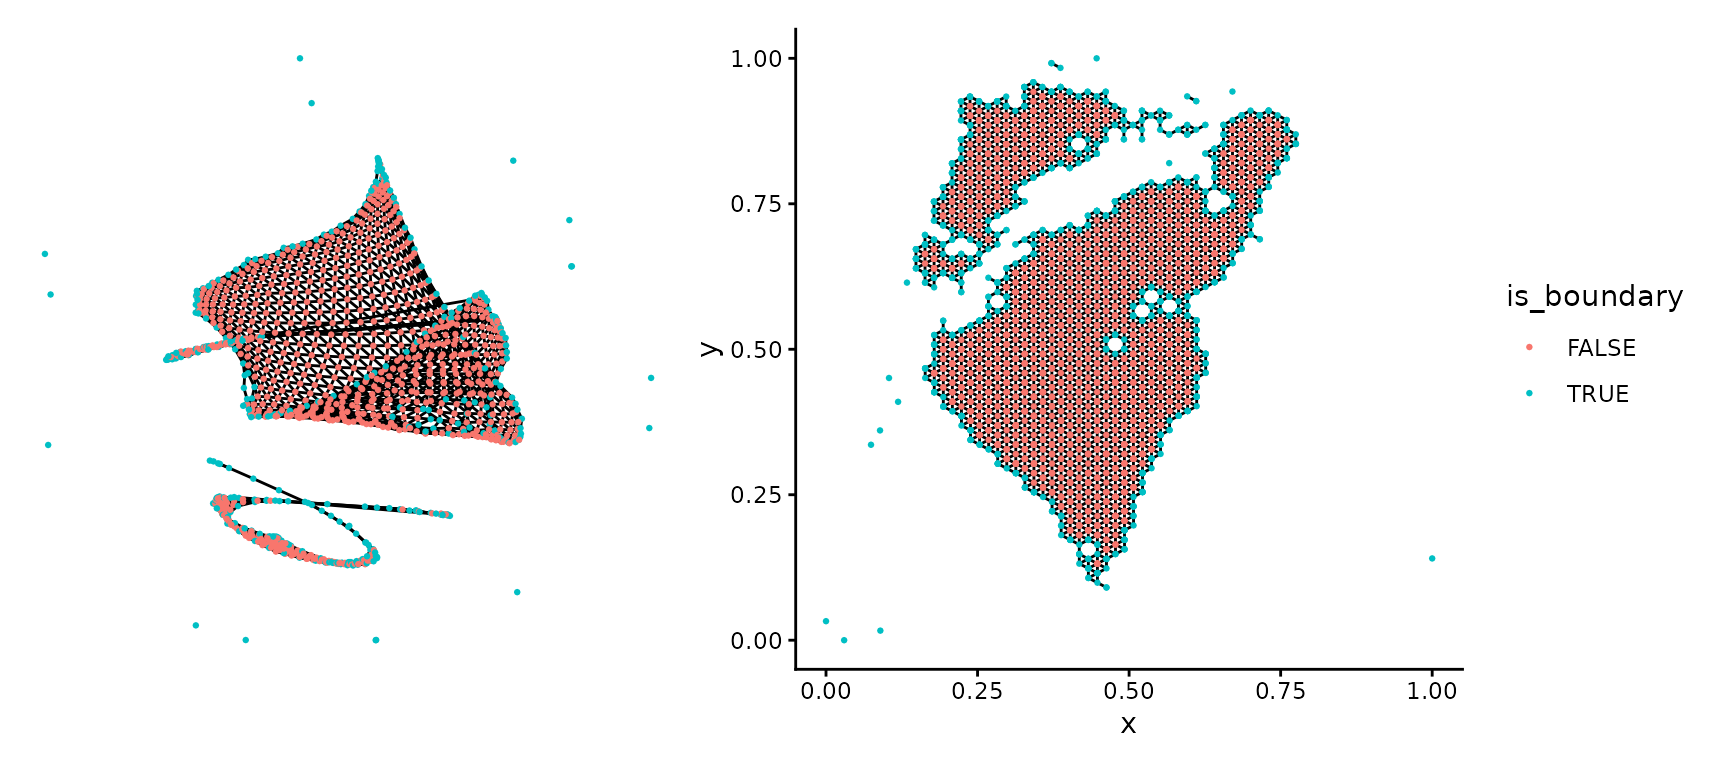
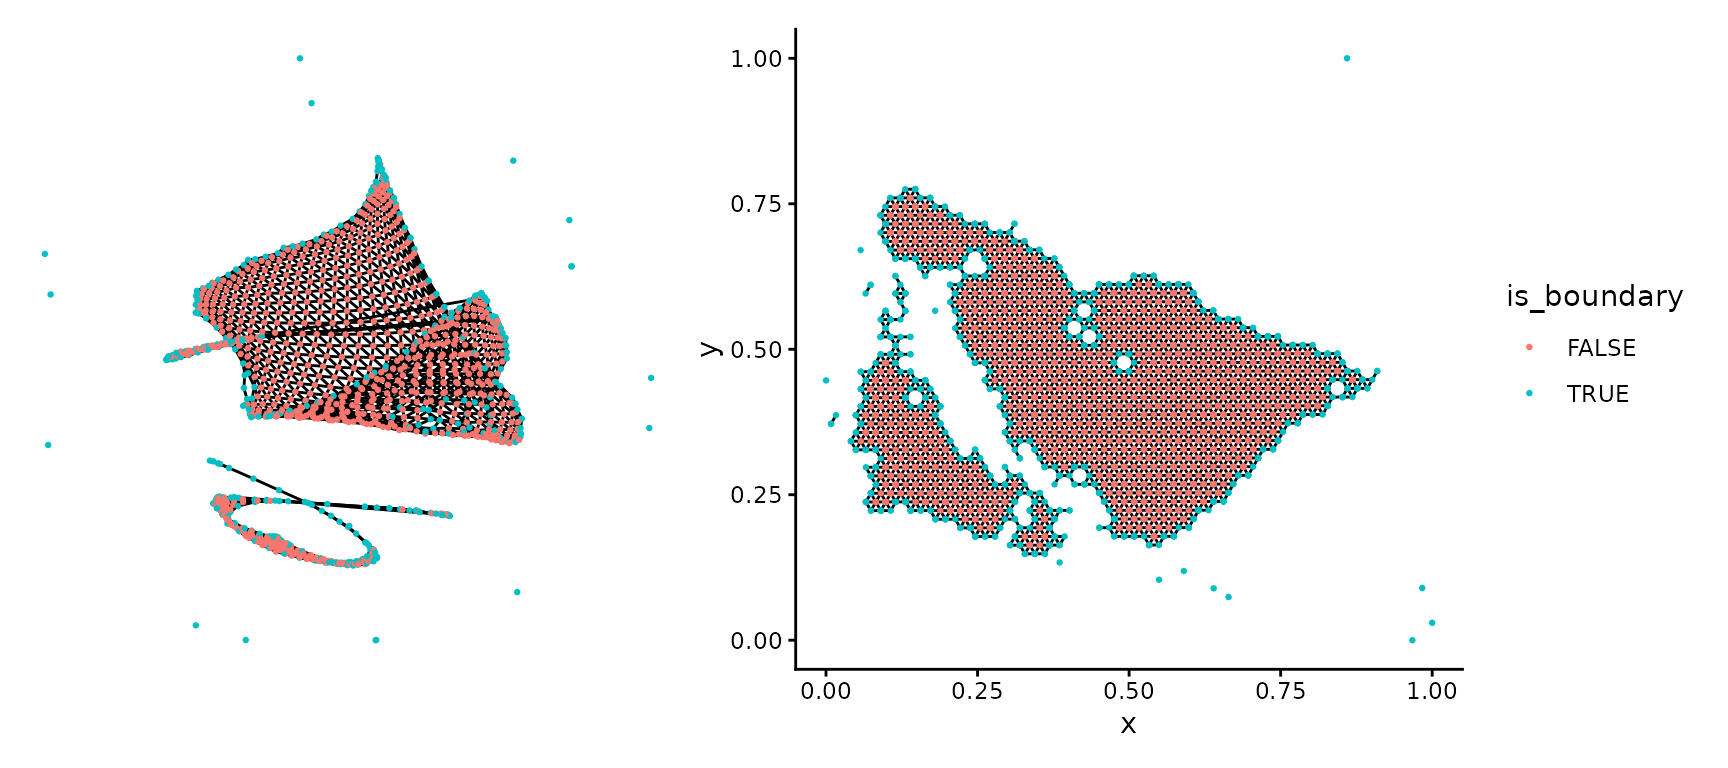
Deploying to gh-pages from @ Sanin-Lab/SpotGraphs@8dd87487889e87776dd56271fca29dce03f515f7 🚀

Changed region(s): [[0.4688, 0.0938, 0.8125, 0.7812]]

diff --git a/articles/SpotGraphs.html b/articles/SpotGraphs.html
@@ -114,29 +114,30 @@ through the network between each spot</li>
 the spots on our slide.</p>
 <div class="sourceCode" id="cb3"><pre class="downlit sourceCode r">
 <code class="sourceCode R"><span><span class="va">coord</span> <span class="op">=</span> <span class="fu">Seurat</span><span class="fu">::</span><span class="fu"><a href="https://satijalab.github.io/seurat-object/reference/GetTissueCoordinates.html" class="external-link">GetTissueCoordinates</a></span><span class="op">(</span><span class="va">scc_s1</span><span class="op">)</span></span>
-<span><span class="va">coord</span> <span class="op">=</span> <span class="fu"><a href="https://rdrr.io/r/base/data.frame.html" class="external-link">data.frame</a></span><span class="op">(</span>x <span class="op">=</span> <span class="va">coord</span><span class="op">$</span><span class="va">y</span>, y <span class="op">=</span> <span class="op">-</span><span class="va">coord</span><span class="op">$</span><span class="va">x</span><span class="op">)</span></span>
+<span><span class="co"># coord = data.frame(x = coord$y, y = -coord$x)</span></span>
+<span><span class="va">coord</span> <span class="op">=</span> <span class="va">coord</span><span class="op">[</span>,<span class="fu"><a href="https://rdrr.io/r/base/c.html" class="external-link">c</a></span><span class="op">(</span><span class="st">'x'</span>, <span class="st">'y'</span><span class="op">)</span><span class="op">]</span></span>
 <span><span class="fu"><a href="https://rdrr.io/r/utils/head.html" class="external-link">head</a></span><span class="op">(</span><span class="va">coord</span><span class="op">)</span></span>
-<span><span class="co">#&gt;       x      y</span></span>
-<span><span class="co">#&gt; 1 16571  -4809</span></span>
-<span><span class="co">#&gt; 2 13546  -3944</span></span>
-<span><span class="co">#&gt; 3 14812  -8142</span></span>
-<span><span class="co">#&gt; 4 10536 -13505</span></span>
-<span><span class="co">#&gt; 5 13053 -11764</span></span>
-<span><span class="co">#&gt; 6  9011  -4240</span></span>
+<span><span class="co">#&gt;                        x     y</span></span>
+<span><span class="co">#&gt; AAACACCAATAACTGC-1  4809 16571</span></span>
+<span><span class="co">#&gt; AAACAGGGTCTATATT-1  3944 13546</span></span>
+<span><span class="co">#&gt; AAACCGTTCGTCCAGG-1  8142 14812</span></span>
+<span><span class="co">#&gt; AAACGAGACGGTTGAT-1 13505 10536</span></span>
+<span><span class="co">#&gt; AAACTGCTGGCTCCAA-1 11764 13053</span></span>
+<span><span class="co">#&gt; AAAGACTGGGCGCTTT-1  4240  9011</span></span>
 <span></span>
 <span><span class="va">ig</span> <span class="op">=</span> <span class="fu"><a href="../reference/SpotGraph.html">SpotGraph</a></span><span class="op">(</span>coord <span class="op">=</span> <span class="va">coord</span><span class="op">)</span></span>
 <span><span class="va">ig</span></span>
-<span><span class="co">#&gt; IGRAPH 038dd54 UN-- 1185 3189 -- </span></span>
+<span><span class="co">#&gt; IGRAPH 6d9dc2b UN-- 1185 3189 -- </span></span>
 <span><span class="co">#&gt; + attr: name (v/c), coord_x (v/n), coord_y (v/n), is_boundary (v/l)</span></span>
-<span><span class="co">#&gt; + edges from 038dd54 (vertex names):</span></span>
-<span><span class="co">#&gt;  [1] 1 --175  1 --522  1 --562  1 --718  1 --983  1 --1073 2 --86   2 --1130</span></span>
-<span><span class="co">#&gt;  [9] 3 --31   3 --326  3 --358  3 --680  3 --696  3 --1168 4 --37   4 --38  </span></span>
-<span><span class="co">#&gt; [17] 4 --128  4 --216  4 --691  4 --1109 5 --473  5 --734  5 --799  5 --807 </span></span>
-<span><span class="co">#&gt; [25] 5 --896  5 --1038 6 --61   6 --366  6 --485  6 --653  6 --815  6 --870 </span></span>
-<span><span class="co">#&gt; [33] 7 --110  7 --251  7 --792  7 --936  7 --950  7 --1183 8 --100  8 --153 </span></span>
-<span><span class="co">#&gt; [41] 8 --296  8 --436  8 --1081 8 --1106 9 --185  9 --651  9 --758  9 --826 </span></span>
-<span><span class="co">#&gt; [49] 9 --902  9 --1085 10--121  10--310  10--430  10--460  10--667  10--727 </span></span>
-<span><span class="co">#&gt; [57] 11--127  11--267  11--523  11--853  11--1038 11--1121 12--343  12--553 </span></span>
+<span><span class="co">#&gt; + edges from 6d9dc2b (vertex names):</span></span>
+<span><span class="co">#&gt;  [1] AAACACCAATAACTGC-1--AGGCGGTTTGTCCCGC-1</span></span>
+<span><span class="co">#&gt;  [2] AAACACCAATAACTGC-1--CTCGTCGAGGGCTCAT-1</span></span>
+<span><span class="co">#&gt;  [3] AAACACCAATAACTGC-1--GAAACATAGGAAACAG-1</span></span>
+<span><span class="co">#&gt;  [4] AAACACCAATAACTGC-1--GGAACCTTGACTCTGC-1</span></span>
+<span><span class="co">#&gt;  [5] AAACACCAATAACTGC-1--TCCCTGGCGTATTAAC-1</span></span>
+<span><span class="co">#&gt;  [6] AAACACCAATAACTGC-1--TGGACGCAATCCAGCC-1</span></span>
+<span><span class="co">#&gt;  [7] AAACAGGGTCTATATT-1--ACAGTAATACAACTTG-1</span></span>
+<span><span class="co">#&gt;  [8] AAACAGGGTCTATATT-1--TTCCCGGCGCCAATAG-1</span></span>
 <span><span class="co">#&gt; + ... omitted several edges</span></span></code></pre></div>
 <p>We can plot this igraph object with the ggnetwork package, which
 interfaces directly with ggplot2, or use the SpatialPlotGraph function
@@ -248,7 +249,8 @@ edges between two groups of spots.</p>
 <div class="sourceCode" id="cb10"><pre class="downlit sourceCode r">
 <code class="sourceCode R"><span><span class="co"># Create igraph object</span></span>
 <span><span class="va">coord</span> <span class="op">=</span> <span class="fu"><a href="https://satijalab.github.io/seurat-object/reference/GetTissueCoordinates.html" class="external-link">GetTissueCoordinates</a></span><span class="op">(</span><span class="va">scc_s1</span><span class="op">)</span></span>
-<span><span class="va">coord</span> <span class="op">=</span> <span class="fu"><a href="https://rdrr.io/r/base/data.frame.html" class="external-link">data.frame</a></span><span class="op">(</span>x <span class="op">=</span> <span class="va">coord</span><span class="op">$</span><span class="va">y</span>, y <span class="op">=</span> <span class="op">-</span><span class="va">coord</span><span class="op">$</span><span class="va">x</span><span class="op">)</span></span>
+<span><span class="co"># coord = data.frame(x = coord$y, y = -coord$x)</span></span>
+<span><span class="va">coord</span> <span class="op">=</span> <span class="va">coord</span><span class="op">[</span>,<span class="fu"><a href="https://rdrr.io/r/base/c.html" class="external-link">c</a></span><span class="op">(</span><span class="st">'x'</span>, <span class="st">'y'</span><span class="op">)</span><span class="op">]</span></span>
 <span><span class="va">ig</span> <span class="op">=</span> <span class="fu"><a href="../reference/SpotGraph.html">SpotGraph</a></span><span class="op">(</span><span class="va">coord</span><span class="op">)</span></span>
 <span></span>
 <span><span class="co"># Clustering with igraph</span></span>

diff --git a/articles/SpotGraphs.md b/articles/SpotGraphs.md
@@ -47,29 +47,30 @@ the spots on our slide.
 
 ``` r
 coord = Seurat::GetTissueCoordinates(scc_s1)
-coord = data.frame(x = coord$y, y = -coord$x)
+# coord = data.frame(x = coord$y, y = -coord$x)
+coord = coord[,c('x', 'y')]
 head(coord)
-#>       x      y
-#> 1 16571  -4809
-#> 2 13546  -3944
-#> 3 14812  -8142
-#> 4 10536 -13505
-#> 5 13053 -11764
-#> 6  9011  -4240
+#>                        x     y
+#> AAACACCAATAACTGC-1  4809 16571
+#> AAACAGGGTCTATATT-1  3944 13546
+#> AAACCGTTCGTCCAGG-1  8142 14812
+#> AAACGAGACGGTTGAT-1 13505 10536
+#> AAACTGCTGGCTCCAA-1 11764 13053
+#> AAAGACTGGGCGCTTT-1  4240  9011
 
 ig = SpotGraph(coord = coord)
 ig
-#> IGRAPH 038dd54 UN-- 1185 3189 -- 
+#> IGRAPH 6d9dc2b UN-- 1185 3189 -- 
 #> + attr: name (v/c), coord_x (v/n), coord_y (v/n), is_boundary (v/l)
-#> + edges from 038dd54 (vertex names):
-#>  [1] 1 --175  1 --522  1 --562  1 --718  1 --983  1 --1073 2 --86   2 --1130
-#>  [9] 3 --31   3 --326  3 --358  3 --680  3 --696  3 --1168 4 --37   4 --38  
-#> [17] 4 --128  4 --216  4 --691  4 --1109 5 --473  5 --734  5 --799  5 --807 
-#> [25] 5 --896  5 --1038 6 --61   6 --366  6 --485  6 --653  6 --815  6 --870 
-#> [33] 7 --110  7 --251  7 --792  7 --936  7 --950  7 --1183 8 --100  8 --153 
-#> [41] 8 --296  8 --436  8 --1081 8 --1106 9 --185  9 --651  9 --758  9 --826 
-#> [49] 9 --902  9 --1085 10--121  10--310  10--430  10--460  10--667  10--727 
-#> [57] 11--127  11--267  11--523  11--853  11--1038 11--1121 12--343  12--553 
+#> + edges from 6d9dc2b (vertex names):
+#>  [1] AAACACCAATAACTGC-1--AGGCGGTTTGTCCCGC-1
+#>  [2] AAACACCAATAACTGC-1--CTCGTCGAGGGCTCAT-1
+#>  [3] AAACACCAATAACTGC-1--GAAACATAGGAAACAG-1
+#>  [4] AAACACCAATAACTGC-1--GGAACCTTGACTCTGC-1
+#>  [5] AAACACCAATAACTGC-1--TCCCTGGCGTATTAAC-1
+#>  [6] AAACACCAATAACTGC-1--TGGACGCAATCCAGCC-1
+#>  [7] AAACAGGGTCTATATT-1--ACAGTAATACAACTTG-1
+#>  [8] AAACAGGGTCTATATT-1--TTCCCGGCGCCAATAG-1
 #> + ... omitted several edges
 ```
 
@@ -203,7 +204,8 @@ edges between two groups of spots.
 ``` r
 # Create igraph object
 coord = GetTissueCoordinates(scc_s1)
-coord = data.frame(x = coord$y, y = -coord$x)
+# coord = data.frame(x = coord$y, y = -coord$x)
+coord = coord[,c('x', 'y')]
 ig = SpotGraph(coord)
 
 # Clustering with igraph
